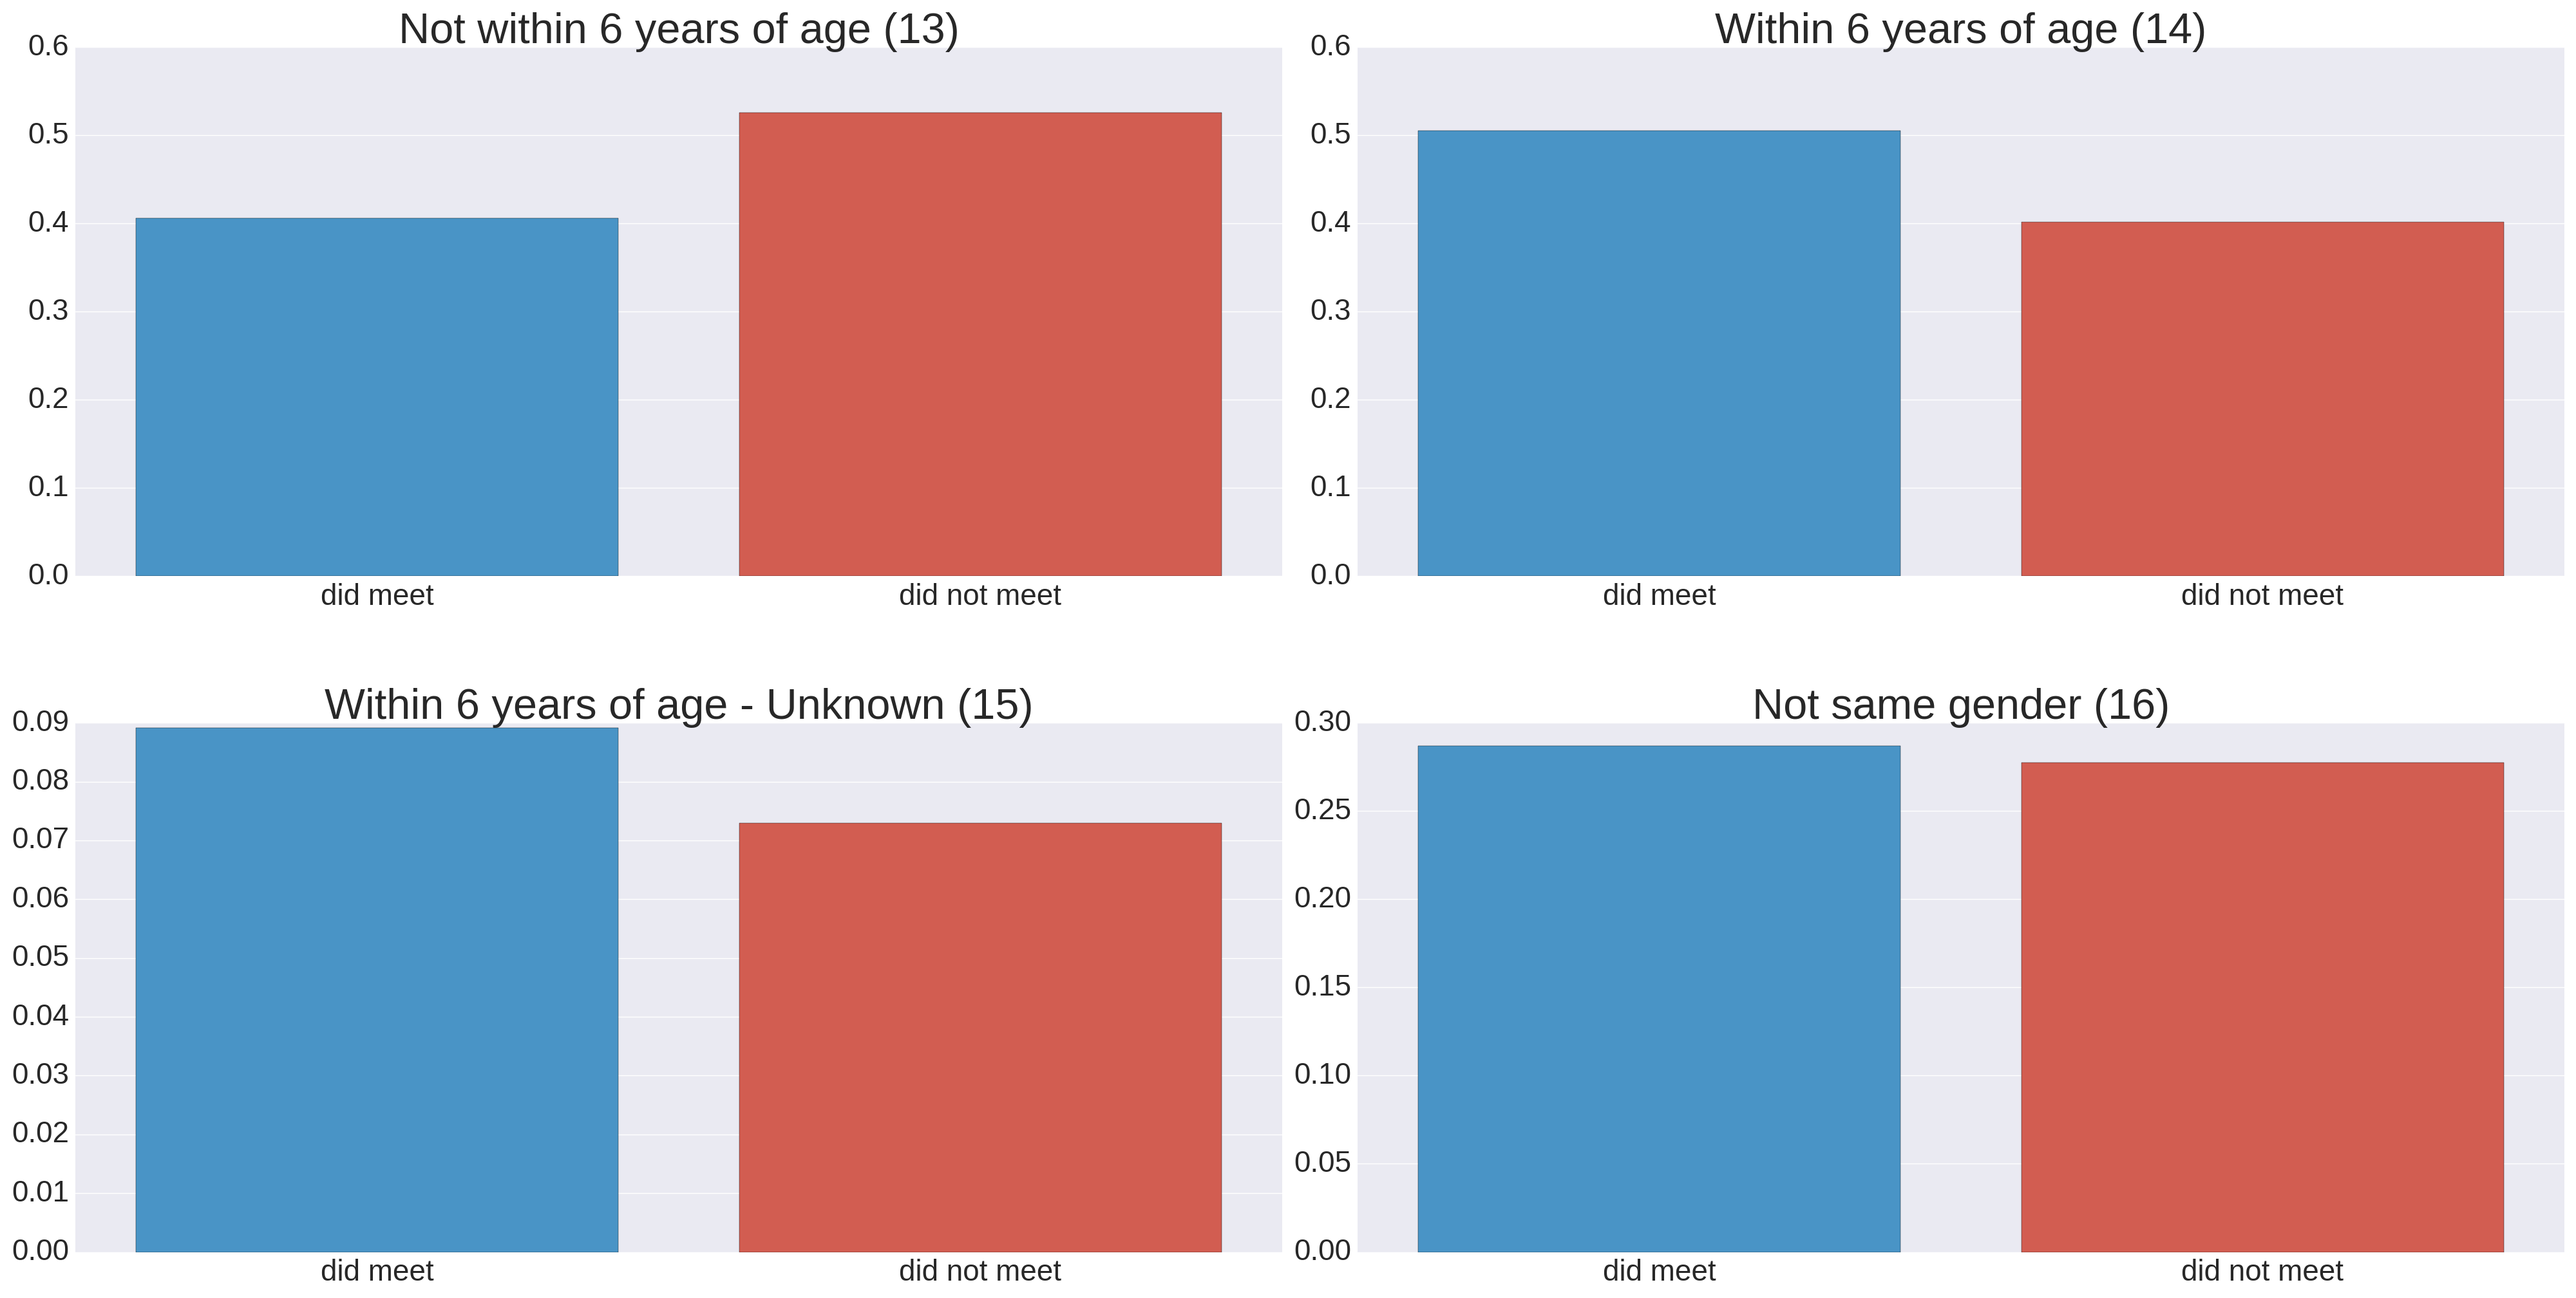
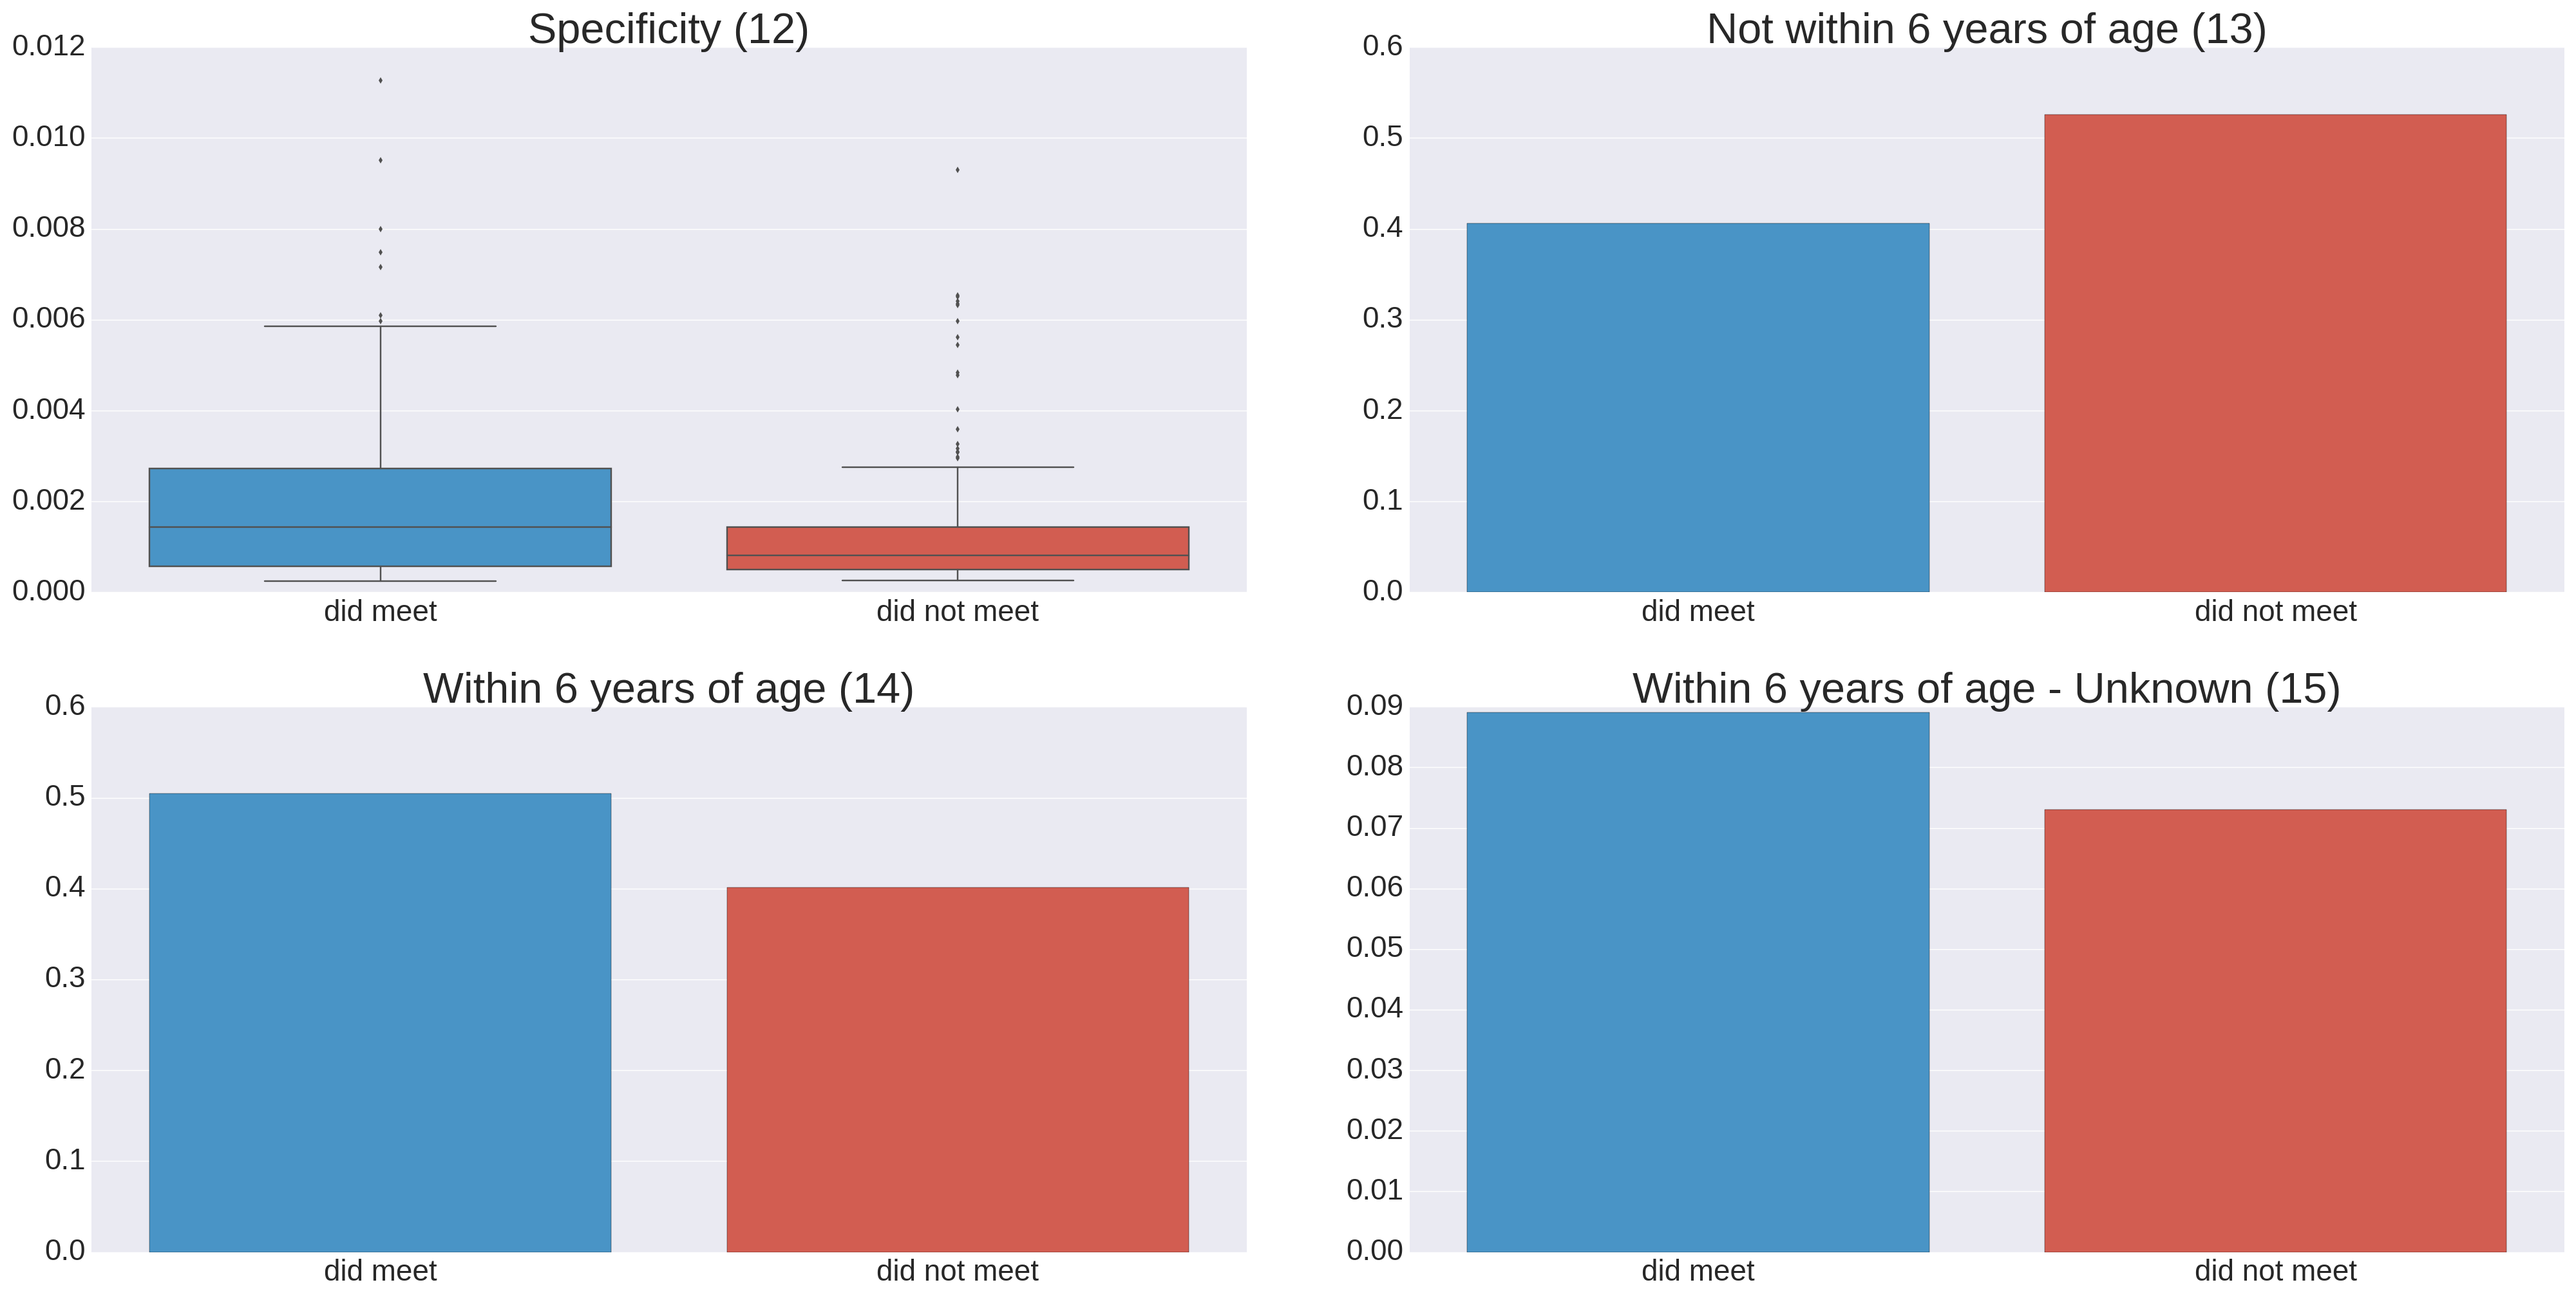
yet new box plots

diff --git a/tools/scripts/feature_histograms.py b/tools/scripts/feature_histograms.py
@@ -57,21 +57,21 @@ def hist(is_prod=True):
         ax.set_title(feature)
         all_events = np.hstack((meets[:, index], nonmeets[:, index]))
         types = np.hstack((["did meet" for x in range(len(meets[:, index]))], ["did not meet" for x in range(len(nonmeets[:,index]))]))
-        if feature not in ["Mutual co-occurrences (8)"]:
-            if feature in ["Two unique co-occurrences (0)", "Not within 6 years of age (13)", "Within 6 years of age (14)", "Within 6 years of age - Unknown (15)",
-                           "Not same gender (16)", "Same gender (17)", "Same gender - Unknown (18)"]:
-                sns.barplot(x=types, y=all_events, ci=False)
-            else:
-                sns.boxplot(x=types, y=all_events, ax=ax)
-            [item.set_fontsize(45) for item in [ax.yaxis.label, ax.xaxis.label]]
-            ax.title.set_fontsize(48)
-            [item.set_fontsize(33) for item in ax.get_xticklabels() + ax.get_yticklabels()]
-            plot_index += 1
-            if plot_index == 5:
-                plt.show()
-                figure += 1
-                f = plt.figure(figure, figsize=(10, 10))
-                plot_index = 1
+        #if feature not in ["Mutual co-occurrences (8)"]:
+        if feature in ["Two unique co-occurrences (0)", "Not within 6 years of age (13)", "Within 6 years of age (14)", "Within 6 years of age - Unknown (15)",
+                       "Not same gender (16)", "Same gender (17)", "Same gender - Unknown (18)"]:
+            sns.barplot(x=types, y=all_events, ci=False)
+        else:
+            sns.boxplot(x=types, y=all_events, ax=ax)
+        [item.set_fontsize(45) for item in [ax.yaxis.label, ax.xaxis.label]]
+        ax.title.set_fontsize(48)
+        [item.set_fontsize(33) for item in ax.get_xticklabels() + ax.get_yticklabels()]
+        plot_index += 1
+        if plot_index == 5:
+            plt.show()
+            figure += 1
+            f = plt.figure(figure, figsize=(10, 10))
+            plot_index = 1
     [item.set_fontsize(45) for item in [ax.yaxis.label, ax.xaxis.label]]
     ax.title.set_fontsize(48)
     [item.set_fontsize(33) for item in ax.get_xticklabels() + ax.get_yticklabels()]
